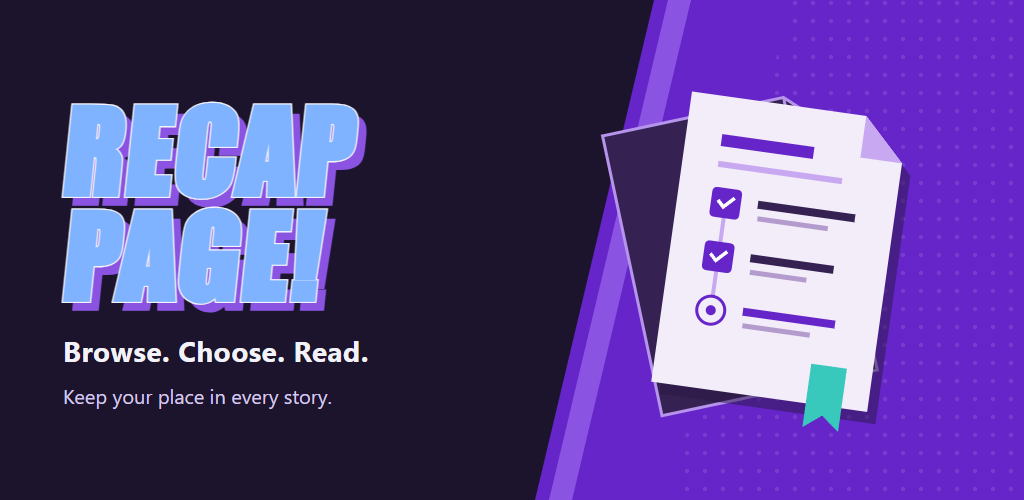
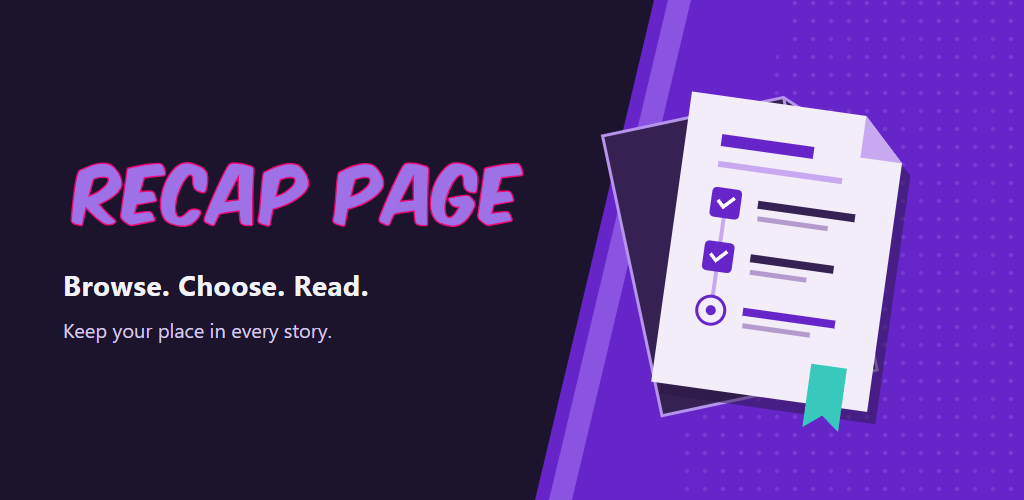
Redraw the feature graphic with the one-line wordmark
The owner-supplied feature graphic still carried the old two-line "RECAP PAGE!"
lettering, so the project home, and the Google Play listing it mirrors, no
longer matched the app. The left panel is a flat color (every sampled pixel
outside the text is 28,20,44), so the old lettering was painted over with that
color and the app's own dark wordmark was drawn on one line in its place. The
two tagline lines were lifted 66 pixels so the shorter text block stays
centered beside the checklist. The illustration on the right is untouched.

The file is still 1024 by 500, now an opaque 24-bit PNG, which is what Google
Play asks for. The provenance record carries the new hash and says how the art
was changed, and the image description no longer names the exclamation mark.

Part of #1219.

Changed region(s): [[0.0625, 0.18, 0.5312, 0.75], [0.0625, 0.78, 0.3438, 0.81]]

diff --git a/pages/index.html b/pages/index.html
@@ -60,7 +60,7 @@
           height="500"
           loading="eager"
           fetchpriority="high"
-          alt="Recap Page! Browse. Choose. Read. Keep your place in every story. An illustrated checklist with a bookmark."
+          alt="Recap Page. Browse. Choose. Read. Keep your place in every story. An illustrated checklist with a bookmark."
         />
         <p class="overview-boundary">
           No Recap Page account. No automatic device sync or offline comic reading.

diff --git a/docs/MAINTAINING.md b/docs/MAINTAINING.md
@@ -1335,8 +1335,10 @@ date, so a release PR must pass it before its first post-tag Pages deployment.
 The two 960 by 900 images use a clean demo profile, cover art off, and the collapsed sidebar.
 Keep them byte-identical to their namesakes under `docs/screenshots/`.
 
-The three Android images live under `pages/assets/`. The feature graphic is owner-supplied;
-the two phone layouts are selected, inspected copies from `npm run play:assets`, generated from
+The three Android images live under `pages/assets/`. The feature graphic is owner-supplied art
+whose wordmark was redrawn from the app's dark wordmark when the wordmark changed. It is also the
+Google Play feature graphic, so replace the two together. The two phone layouts are selected,
+inspected copies from `npm run play:assets`, generated from
 the source revision recorded in [the asset provenance](project-home-assets.json). That record
 binds the source, renderer, fictional fixture and image hashes; it is not deployed with the site.
 The page labels these as desktop-rendered development previews, not native-device screenshots
